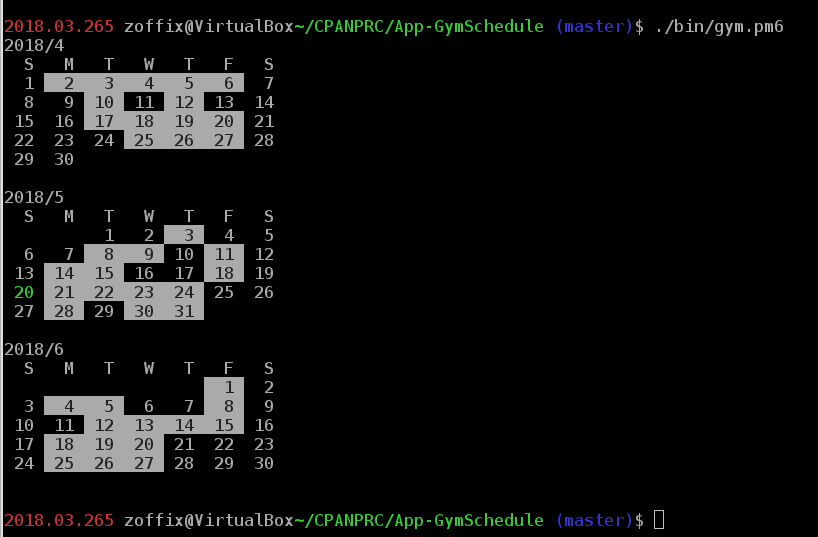
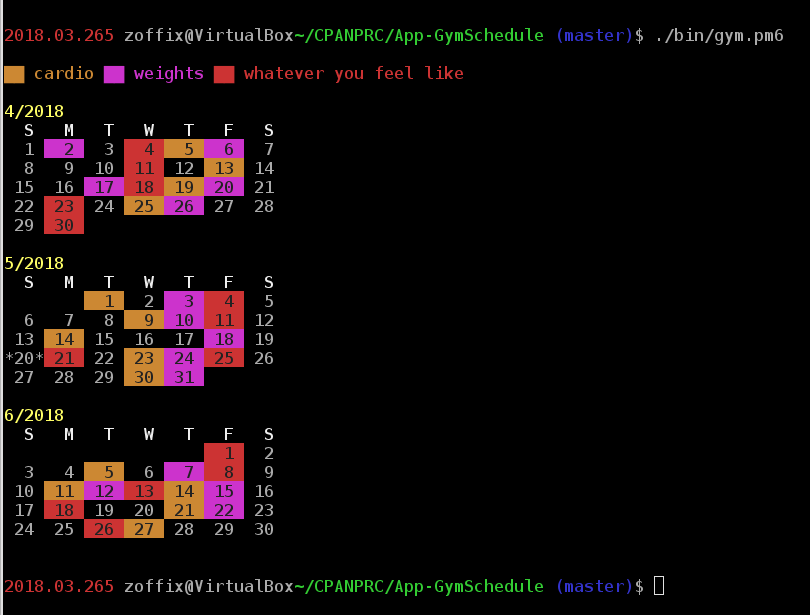
Add modes-desc

Changed region(s): [[0.0, 0.0298, 0.9568, 0.8939], [0.0, 0.9236, 0.8333, 0.9832], [0.1543, 0.3873, 0.1852, 0.4171]]

diff --git a/README.md b/README.md
@@ -29,6 +29,52 @@ This distribution installs `gym.p6` program. On its first execution will create
 your scheduler, if necessary. Running the program prints a calendar with
 your work out days marked off.
 
+# CONFIGURATION KEYS
+
+The config file is in JSON format, an object with key/values:
+
+## `seed`
+
+The saved [`time`](https://docs.perl6.org/routine/time) from which days
+generation will start (after subtracting `show-months-before` months). This
+is used to seed [`srand`](https://docs.perl6.org/routine/srand) when picking
+workout days.
+
+**Defaults to** the [`time`](https://docs.perl6.org/routine/time) when
+config file was created.
+
+## `workout-days-per-month`
+
+Number of non-weekend days to pick per month. **Defaults to** `14`.
+
+## `modes`
+
+Takes a list of valid
+[`Terminal::ANSIColor`](https://github.com/tadzik/Terminal-ANSIColor) colours.
+When highlighting workout days, the colors will rotate. You can make the
+program to print a legend of what the colours mean by adding `modes-desc`
+key to config file. **Defaults to** `["yellow", "magenta"]`
+
+## `modes-desc`
+
+```js
+    "modes-desc": [
+        "cardio", "weights"
+    ]
+```
+
+By default is not specified. Must contain the same number of elements as
+`modes` list. When specified, prints a legend of what `modes` colours mean,
+by mapping the `modes` elements to `modes-desc` elements.
+
+## `show-months-before`
+
+Number of months before the current month to print. **Defaults to** `1`
+
+## `show-months-after`
+
+Number of months after the current month to print. **Defaults to** `1`
+
 # LIMITATIONS
 
 Requires
